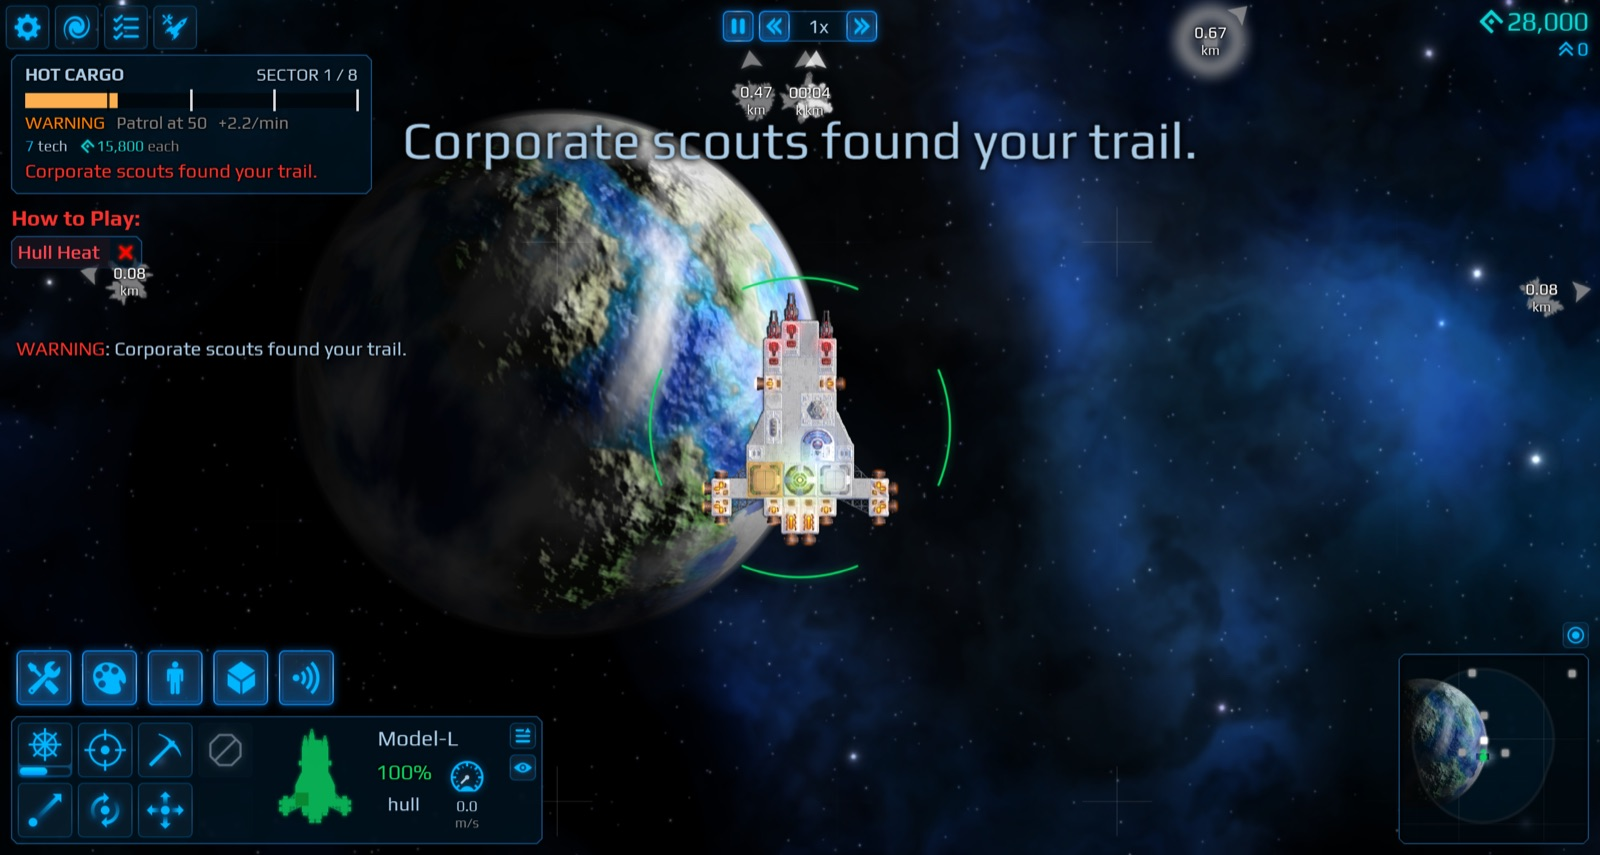
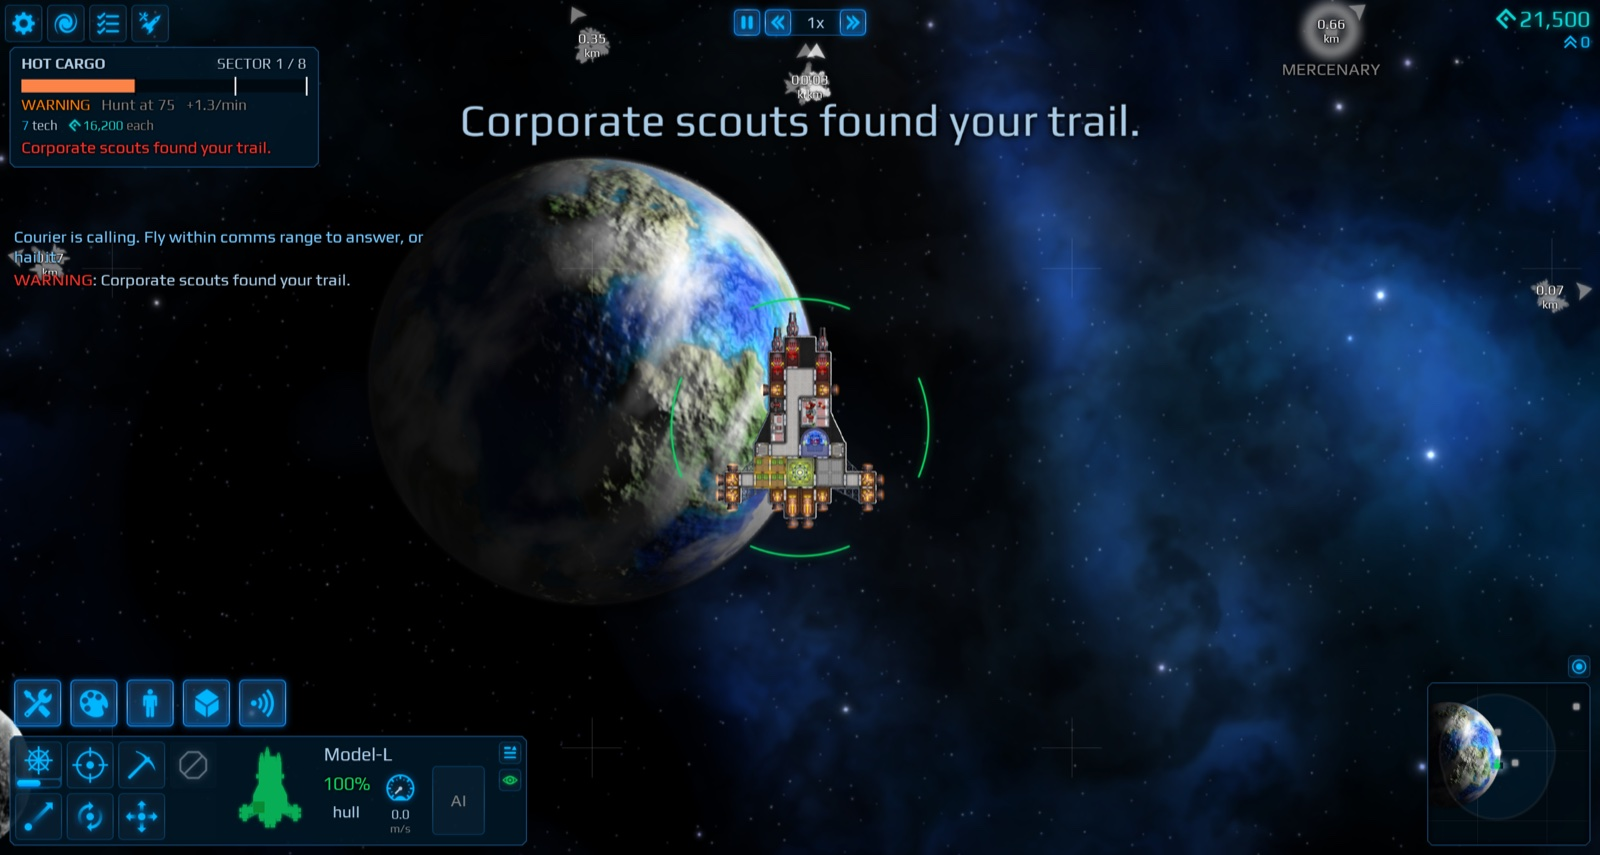
docs: diplomacy and 3-stage heat alert screenshots; README vault loss rule
- Screenshots from tests/screens/diplomacy.txt and hud.txt (hud-07-heat-warning) on main 850a59b.
- README: a vault loses tech only when destroyed (fix/vault-move); the loss timer gives 3 minutes.

diff --git a/README.md b/README.md
@@ -12,7 +12,7 @@ You stole corporate tech. The corporation wants it back. Get it across about 8 s
 
 - **Hold or sell.** You start with 8 Stolen Tech in four Tech Vaults. The more you hold, the harder the corporation hunts you. Stations pay for tech now, and the price rises as the run goes on: one or two units buy a new ship of your stage. The Buyer pays 4× the price, and unsold units count the same in the score.
 - **Move on or burn.** Heat rises over time and with every mission. Each heat stage sends corporate hunters that kite, flank, bait and go for your guns. A jump to a new system cools you down.
-- **Protect the cargo.** Hits on a vault destroy tech. Each vault is one tile that holds 2 units: build more, spread them out, armor and shield them. If your tech reaches 0, the run is over.
+- **Protect the cargo.** A destroyed vault spills its tech as crates, and some of it can burn. Hunters grab loose crates. Each vault is one tile that holds 2 units: build more, spread them out, armor and shield them. If you hold no tech for 3 minutes, the run is over.
 - **Deliver.** The Buyer waits in the last sector. Sell it your tech to win.
 - **New missions.** Convoy escorts, joint strikes, shady bounties that may be traps, sieges, salvage, sundives and more.
 - **Contracts.** Some clients charge a fee, some are rivals, and some sell you out to the corporation.
